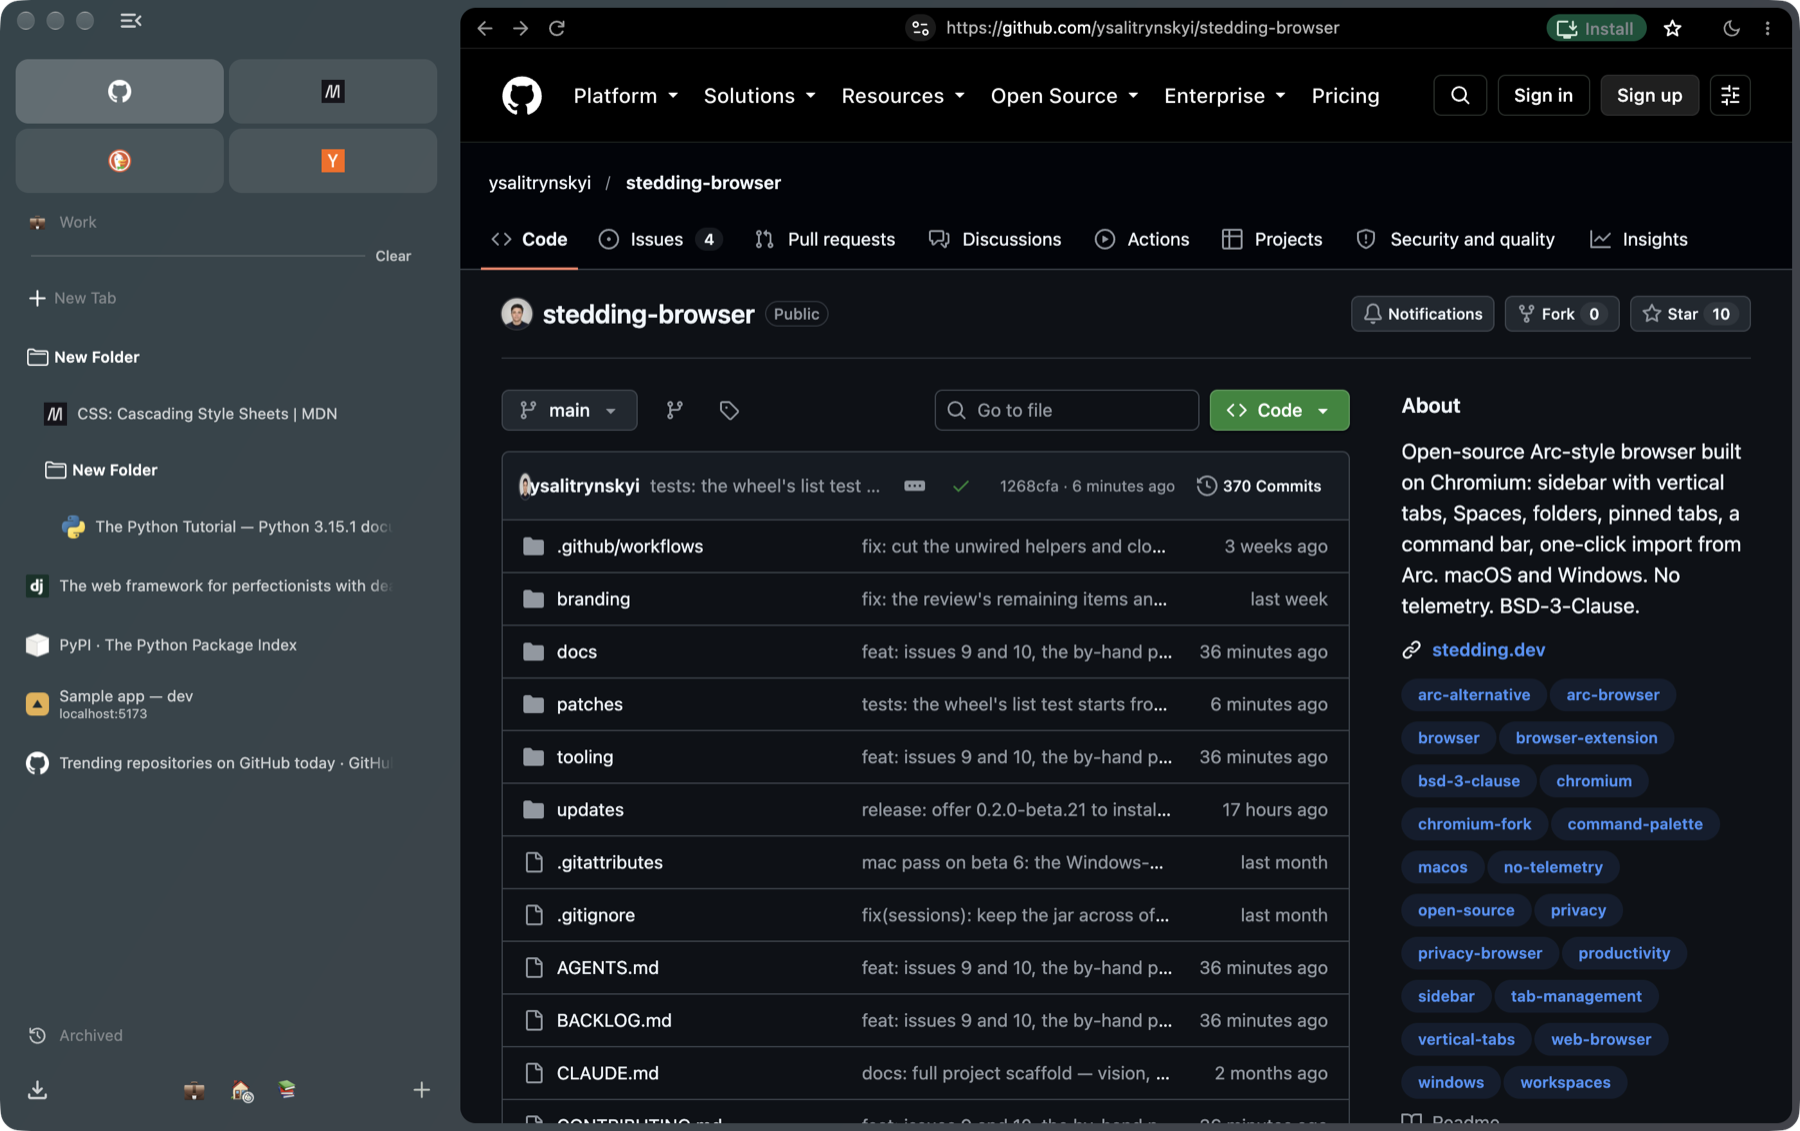
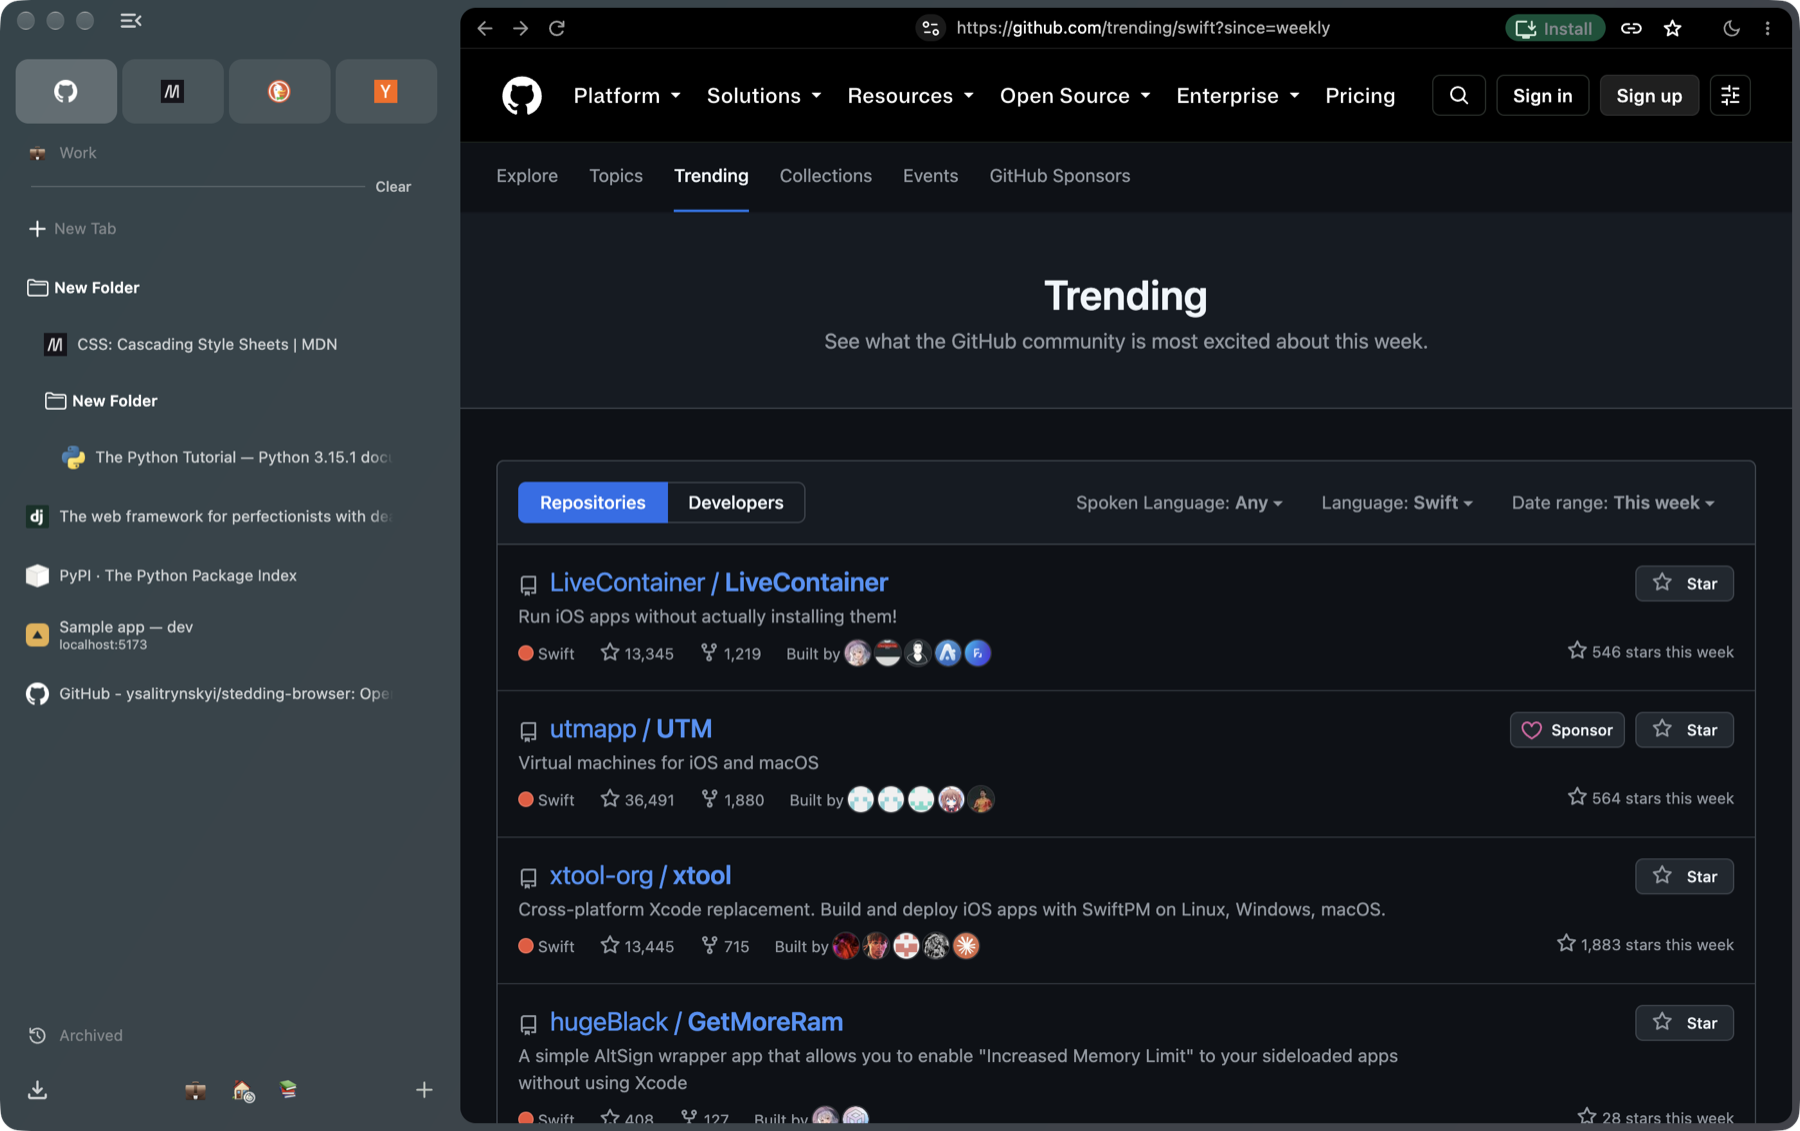
docs: the hero on GitHub's trending page, and captures beside a full-screen app
The README's hero showed the project's own GitHub page with a star count
and file list that went stale; the stills now open GitHub's weekly
trending Swift projects in front (tooling/readme/common.sh), taken from
the 0.3.0 beta 10 build. tooling/capture-windows takes the largest window
from another Space when the current one has none, so stills can be taken
while the person at the Mac works in a full-screen app (trap 132).

diff --git a/docs/HANDOFF.md b/docs/HANDOFF.md
@@ -46,7 +46,7 @@ you, not the list.
 |---|---|
 | Building, disk, rebuild cost | 1, 16, 19, 23, 44, 45, 53, 54, 57, 70, 73, 74, 83, 89, 90, 100, 123 |
 | The working loop and the series | 5, 9, 13, 14, 17, 22, 50, 51, 89, 92 |
-| Driving and capturing the window | 3, 7, 10, 11, 12, 15, 18, 24, 27, 29, 30, 36, 37, 52, 56, 59, 61, 63, 64, 65, 76, 82, 93, 94, 95, 96, 103, 105, 107, 116, 121, 130 |
+| Driving and capturing the window | 3, 7, 10, 11, 12, 15, 18, 24, 27, 29, 30, 36, 37, 52, 56, 59, 61, 63, 64, 65, 76, 82, 93, 94, 95, 96, 103, 105, 107, 116, 121, 130, 132 |
 | What a test can and cannot prove | 2, 4, 31, 46, 48, 51, 52, 55, 56, 58, 59, 60, 66, 68, 69, 72, 75, 77, 78, 79, 80, 81, 84, 86, 87, 88, 91, 98, 99, 101, 102, 104, 106, 107, 110, 111, 112, 113, 114, 115, 119, 120, 126, 127 |
 | Windows | 32, 34, 36, 38, 40, 42, 53, 54, 55, 56, 57, 59, 62, 67, 68, 69, 70, 71, 74, 91, 93, 98, 99, 100, 101, 103, 106, 111, 113, 114, 115, 116, 118, 121, 122, 125, 128 |
 | Release and signing | 44, 47, 49, 62, 85, 117, 118, 124, 129, 131 |
@@ -1716,6 +1716,15 @@ ApiTabsSplitView` (`chrome.tabs.createSplit`, `chrome.tabs.group`).
     publish. Run the next release's real-feed check from a fixed copy (beta 10 or later) with
     `--log-net-log` straight after publishing. Both `publish-appcast` scripts also fetch the published image and
     compare its checksum before they write the feed, which checks what users will get.
+
+132. **While the operator works in a full-screen app, a capture finds no window.** A full-screen
+    window is a macOS Space of its own, and a browser launched in the background
+    (`tooling/capture-state`) opens its window on the desktop instead, where the window list
+    marks it off screen: "no window owned by pid", every still refused (2026-10-23, the
+    owner's Stedding in full screen). `tooling/capture-windows` now takes the largest window
+    from another Space when the current one has none, as its `--largest` form already did for
+    `tooling/drive`'s shots; `screencapture -l` captures it there. A capture beside the
+    owner's own Stedding still needs a copy with its own bundle id (trap 124).
 
 ## The Windows build
 

diff --git a/README.md b/README.md
@@ -119,7 +119,7 @@ Windows copy needs one install by hand). Checksums are in each release's notes;
 
 <picture>
   <source media="(prefers-color-scheme: dark)" srcset="docs/images/readme/hero-dark.png">
-  <img src="docs/images/readme/hero.png" alt="The Stedding window: four essentials as cards at the top of the sidebar, then the Work Space with a folder holding a nested one, tabs for Django, PyPI, a sample app on localhost:5173 and GitHub Trending, and three Space chips at the foot; the project's GitHub page on a card, its full address on the top row in the page's own black">
+  <img src="docs/images/readme/hero.png" alt="The Stedding window: four essentials as cards at the top of the sidebar, then the Work Space with a folder holding a nested one, tabs for Django, PyPI, a sample app on localhost:5173 and the project's own GitHub page, and three Space chips at the foot; GitHub's trending page for Swift projects on a card, its full address on the top row in the page's own black">
 </picture>
 
 ## Keyboard shortcuts
